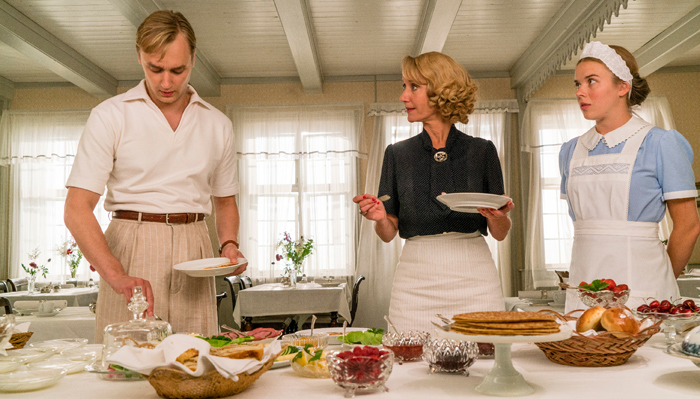
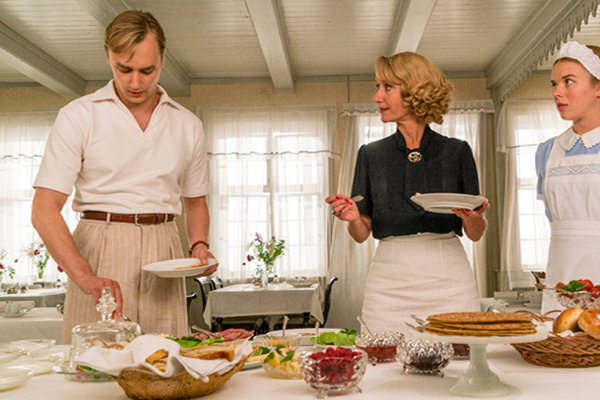
Changed viewer part to look and act more like it should

diff --git a/Program/src/main/java/Presentation/ViewerController.java b/Program/src/main/java/Presentation/ViewerController.java
@@ -14,10 +14,18 @@ import javafx.scene.image.Image;
 import javafx.scene.image.ImageView;
 import javafx.scene.input.KeyEvent;
 import java.io.File;
+import java.io.FileNotFoundException;
 import java.io.IOException;
 import java.net.URL;
 import java.util.ResourceBundle;
+import java.util.Scanner;
+
 import javafx.event.ActionEvent;
+import javafx.scene.layout.Border;
+import javafx.scene.layout.BorderStroke;
+import javafx.scene.layout.BorderStrokeStyle;
+import javafx.scene.layout.BorderWidths;
+import javafx.scene.paint.Color;
 
 import static javafx.scene.input.KeyCode.KP_UP;
 
@@ -32,6 +40,9 @@ public class ViewerController implements Initializable {
     private Label textOverlay;
 
     @FXML
+    private Label titleLabel;
+
+    @FXML
     private TextArea textOverlayArea;
 
     private Thread t1;
@@ -41,6 +52,10 @@ public class ViewerController implements Initializable {
         images = new Image[4];
         String pre = "slide";
         String post = ".png";
+
+        textOverlay.setStyle("-fx-opacity 1; -fx-background-color: rgb(0, 0, 0, 0.5);");
+        titleLabel.setStyle("-fx-opacity 1; -fx-background-color: rgb(0, 0, 0, 0.5);");
+
         for (int i = 0; i < images.length; i++) {
             images[i] = new Image(new File("src/main/resources/images/" + pre + i + post).toURI().toString());
         }
@@ -49,12 +64,15 @@ public class ViewerController implements Initializable {
         t1.setDaemon(true);
         t1.start();
 
+
+
     }
 
 
     public class SlideRunnable implements Runnable {
 
         private int i;
+        private int j;
         private long sleepTime;
         private boolean running;
         private ImageView iw;
@@ -71,47 +89,53 @@ public class ViewerController implements Initializable {
         @Override
         public void run() {
 
+            File directory = new File("./src/txtfiles/broadcasts/");
+            //Makes array of files in directory.
+            File[] files = directory.listFiles();
 
 
             running = true;
             System.out.println("Thread started: " + Thread.currentThread());
 
             while (running) {
+
                 Platform.runLater(new Runnable() {
                     @Override
                     public void run() {
+                        Scanner scan = null;
 
                         iw.setImage(images[i]);
-                        if (i == 0) {
-                            StringBuilder string = new StringBuilder();
-                            for (int j = 0; j < read.getBroadcastCredits("Fathers").size(); j++) {
-                                string.append(read.getBroadcastCredits("Fathers").get(j)+"\r\n");
-                                String singleString = string.toString();
-                                textOverlay.setText(singleString);
+
+                        try {
+                            scan = new Scanner(files[j]);
+                            String firstLine = "";
+
+                            firstLine = scan.nextLine();
+                            String[] splitString = firstLine.split(":");
+
+                            titleLabel.setText(splitString[0] + " - " + splitString[2]);
+
+                            if (read.getBroadcastCredits(splitString[0]).size() == 0)
+                                textOverlay.setText("Der er ingen kreditering for denne udsendelse.");
+                            else {
+                                StringBuilder string = new StringBuilder();
+                                for (int j = 0; j < read.getBroadcastCredits(splitString[0]).size(); j++) {
+                                    String creditLine = read.getBroadcastCredits(splitString[0]).get(j);
+                                    String[] creditSplit = creditLine.split(":");
+                                    string.append(creditSplit[0] + " " + creditSplit[1] + "                        " + creditSplit[2] + "\r\n");
+
+                                    String singleString = string.toString();
+                                    textOverlay.setText(singleString);
+                                }
                             }
-                        } else if (i == 1) {
-                            StringBuilder string = new StringBuilder();
-                            for (int j = 0; j < read.getBroadcastCredits("Geeks").size(); j++) {
-                                string.append(read.getBroadcastCredits("Geeks").get(j)+"\r\n");
-                                String singleString = string.toString();
-                                textOverlay.setText(singleString);
-                            }
-                        } else if (i == 2) {
-                            StringBuilder string = new StringBuilder();
-                            for (int j = 0; j < read.getBroadcastCredits("homer").size(); j++) {
-                                string.append(read.getBroadcastCredits("homer").get(j)+"\r\n");
-                                String singleString = string.toString();
-                                textOverlay.setText(singleString);
-                            }
-                        } else if (i == 3) {
-                            StringBuilder string = new StringBuilder();
-                            for (int j = 0; j < read.getBroadcastCredits("live").size(); j++) {
-                                string.append(read.getBroadcastCredits("live").get(j)+"\r\n");
-                                String singleString = string.toString();
-                                textOverlay.setText(singleString);
-                            }
+
+                        } catch (FileNotFoundException e) {
+                            e.printStackTrace();
                         }
+
                         i = (i + 1) % images.length;
+                        j = (j + 1) % files.length;
+
                     }
                 });
                 synchronized (this) {

diff --git a/Program/src/main/java/Presentation/AppViewer.java b/Program/src/main/java/Presentation/AppViewer.java
@@ -21,7 +21,7 @@ public class AppViewer extends Application {
 
     @Override
     public void start(Stage stage) throws IOException {
-        scene = new Scene(loadFXML("Viewer"), 700, 339);
+        scene = new Scene(loadFXML("Viewer"), 600, 400);
         stage.setScene(scene);
         stage.show();
     }
